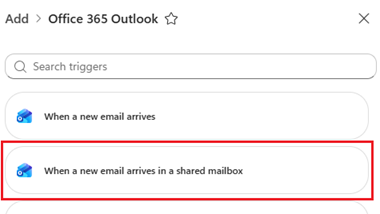
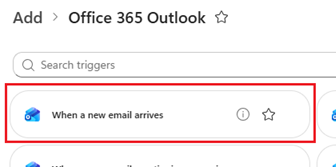
Use personal mailbox trigger in workflow walkthrough

diff --git a/01-scenarios/HR-Onboarding-Agent-GHCP/3.Runbook.md b/01-scenarios/HR-Onboarding-Agent-GHCP/3.Runbook.md
@@ -242,37 +242,31 @@ Use [Copilot Studio Workflows](https://learn.microsoft.com/en-us/microsoft-copil
 
 > ![Select the Office 365 Outlook connector](0.Resources/Images/070.png?v=46bfe700fbaa)
 
-5. Select **When a new email arrives in a shared mailbox**.
+5. Select **When a new email arrives**. **Note:** In a real production solution, we would probably use a shared mailbox.
 
-> ![Select the shared-mailbox email trigger](0.Resources/Images/066.png?v=edac3435379d)
+> ![Select When a new email arrives](0.Resources/Images/066.png?v=f15bb9d53595)
 
-6. Set **Original Mailbox Address** to your own email address for testing (in production, use the actual shared mailbox provided by the HR team). From **Advanced parameters**, select **Subject filter**.
+6. Set **Subject filter** to **HR question**.
 
-> ![Set Original Mailbox Address and select Subject filter](0.Resources/Images/071.png?v=88c0d20c3a58)
-
-> **Mailbox compatibility:** The selected shared-mailbox V2 trigger (`SharedMailboxOnNewEmailV2`) requires a shared mailbox your connection can access. If your own address is an ordinary personal mailbox, use the personal-mailbox trigger for testing instead, or use an accessible test shared mailbox here. Entering an address does not establish trigger support or access.
-
-7. Set **Subject filter** to **HR question**.
-
-> ![Set the Subject filter value to HR question](0.Resources/Images/072.png?v=9a43c696e06b)
+> ![Set the Subject filter value to HR question](0.Resources/Images/071.png?v=cb0a2ae6902f)
 
 > Keep **Include Attachments = No**. Backend intake still checks authoritative attachment metadata; this switch does not reject attached mail. A subject filter is not an authorization control. Before invoking the agent, validate transport authenticity, employee mapping, stable message identity, rate/loop suppression and full request coverage through `AcceptHrEmailEvent`.
 
-8. Click **+** after the trigger to add a new step.
+7. Click **+** after the trigger to add a new step.
 
 > ![Click the plus button after the trigger to add a step](0.Resources/Images/073.png?v=d0b66a5cbca8)
 
-9. Select **Agent**.
+8. Select **Agent**.
 
 > ![Select Agent from the Add panel](0.Resources/Images/074.png?v=ab6f6a190055)
 
-10. Select **An existing agent** → the published **HR Onboarding Agent**. Do not create an inline agent or substitute an unverified Execute Agent connector route. Complete the remaining instructions and skill setup, then republish before testing this node.
-11. In **Message**, supply the sanitized inquiry and isolated trusted context and allowed topics from accepted intake. Record exact GHCP target/version, imported skill execution and effective retrieval identity. Keep **Request human assistance when unsure** disabled; exceptions use the fixed HR queue, not email to the connection owner.
+9. Select **An existing agent** → the published **HR Onboarding Agent**. Do not create an inline agent or substitute an unverified Execute Agent connector route. Complete the remaining instructions and skill setup, then republish before testing this node.
+10. In **Message**, supply the sanitized inquiry and isolated trusted context and allowed topics from accepted intake. Record exact GHCP target/version, imported skill execution and effective retrieval identity. Keep **Request human assistance when unsure** disabled; exceptions use the fixed HR queue, not email to the connection owner.
 
-12. In the **same workflow**, parse the returned candidate as untrusted data. Run `ValidateHrEmailReply`, then `SubmitHrEmailReply` **only** on an authorized server result, using its `authorizationId` and `validatedResultId`. Send only the validated, sanitized HTML body bound by the backend; never accept model-provided recipients or authorization.
-13. Route held/failed/malformed results to `QueueHrEmailException`, and pending/unknown submissions to `GetHrEmailReplyStatus`. Inspect every branch, retry setting and version before saving. Routine authorized replies need no per-message human approval.
+11. In the **same workflow**, parse the returned candidate as untrusted data. Run `ValidateHrEmailReply`, then `SubmitHrEmailReply` **only** on an authorized server result, using its `authorizationId` and `validatedResultId`. Send only the validated, sanitized HTML body bound by the backend; never accept model-provided recipients or authorization.
+12. Route held/failed/malformed results to `QueueHrEmailException`, and pending/unknown submissions to `GetHrEmailReplyStatus`. Inspect every branch, retry setting and version before saving. Routine authorized replies need no per-message human approval.
 
-14. Keep send credentials physically absent or revoked during isolated testing. Workflow node tests can call real APIs; mock input alone is not isolation. Activate the approved real-mail pilot only after E1–E2/D3 pass and release/mailbox owners authorize it. Native Email is unavailable in the [GHCP channel table](https://learn.microsoft.com/en-us/microsoft-copilot-studio/agents-experience/publication-channels-overview); this workflow supplies the email entry path.
+13. Keep send credentials physically absent or revoked during isolated testing. Workflow node tests can call real APIs; mock input alone is not isolation. Activate the approved real-mail pilot only after E1–E2/D3 pass and release/mailbox owners authorize it. Native Email is unavailable in the [GHCP channel table](https://learn.microsoft.com/en-us/microsoft-copilot-studio/agents-experience/publication-channels-overview); this workflow supplies the email entry path.
 
 ---
 

diff --git a/01-scenarios/HR-Onboarding-Agent-GHCP/0.Resources/Release-readiness.md b/01-scenarios/HR-Onboarding-Agent-GHCP/0.Resources/Release-readiness.md
@@ -142,7 +142,7 @@ Follow the [new Workflows overview](https://learn.microsoft.com/en-us/microsoft-
 
 Before testing the Agent node, complete the instructions and all four skill imports in [Runbook Steps 2-4 through 2-6](../3.Runbook.md#step-2-4-update-agent-instructions), and publish that configuration to the isolated test scope. Then return here to verify invocation and downstream processing.
 
-1. Use **Workflows > New workflow** and choose the Office 365 Outlook **When a new email arrives in a shared mailbox (V2)** trigger (`SharedMailboxOnNewEmailV2`) if available in this environment. Configure the approved HR **Original Mailbox Address** and actual folder. A Microsoft 365 group is not a shared mailbox. Qualify the delegated connection's mailbox access; the connector does not document service-principal authentication.
+1. Use **Workflows > New workflow**. The runbook walkthrough uses Office 365 Outlook **When a new email arrives** with **Subject filter = HR question** for personal-mailbox testing. For the production HR shared-mailbox path, choose **When a new email arrives in a shared mailbox (V2)** (`SharedMailboxOnNewEmailV2`) if available in this environment, and configure the approved HR **Original Mailbox Address** and actual folder. A Microsoft 365 group is not a shared mailbox. Qualify the delegated connection's mailbox access; the connector does not document service-principal authentication.
 2. Set **Include Attachments = No**, but do not mistake that for rejecting attachments. `Only with Attachments = No` includes all mail, not only attachment-free mail. Backend intake checks authoritative stable attachment metadata, protected/invalid bodies, transport authenticity and employee mapping. Reject external/unverified/forwarded/redirection cases, bounces and automated loops. Rate-limit and deduplicate by stable mailbox/message identity.
 3. Add the implemented `AcceptHrEmailEvent` step and deterministic branches. Only accepted trusted contexts proceed. Missing request coverage, sensitive content or unknown applicability goes to the fixed HR exception queue; a queue failure becomes a durable failed handoff and operator alert. The agent must not receive restricted content merely to classify it.
 4. Add the **Agent** node, select **An existing agent**, and choose the published **HR Onboarding Agent** with all four imported skills. For isolated invocation testing, publish that standard configuration only to the approved test scope with no send credentials. Pass the sanitized request and trusted context and allowed topics through **Message**. Record the exact selected agent/harness/version, invoked skill, effective retrieval identity, context isolation and returned output in E1. The GHCP documentation establishes this invocation path; the deployment team must verify its actual target and identity configuration. If invocation fails, resolve that setup failure before go-live rather than substituting `ExecuteCopilot`, standard-harness triggers, SDK or an inline agent without verified applicability and a separately approved design change.

diff --git a/01-scenarios/HR-Onboarding-Agent-GHCP/0.Resources/README.md b/01-scenarios/HR-Onboarding-Agent-GHCP/0.Resources/README.md
@@ -19,7 +19,7 @@ These files document one standard scenario for all-employee HR chat and autonomo
 
 HR supplies approved handbook, ongoing benefits/wellness, leave-process, workplace and onboarding articles through the configured ServiceNow knowledge source. The [runbook](../3.Runbook.md#phase-1-servicenow-knowledge-base-setup) covers connection setup, source scope, citations and permissions. Production HR articles and tenant configuration are not included.
 
-The local sample Word documents provide synthetic test content, not production policy or the entire acceptance suite. Review their contents before loading them into an isolated test knowledge base. The runbook contains 57 visible screenshot placements and 5 in the hidden environment-variable step; the connector guide contains 52. Screenshots are being refreshed during editing; retained placeholders are not current-UI evidence. Superseded settings are labeled **Screenshot to replace**. The verification URL in `Images/012.png` is redacted because it contains account-verification material; replace it with a safely captured screenshot from your own setup, never an active token.
+The local sample Word documents provide synthetic test content, not production policy or the entire acceptance suite. Review their contents before loading them into an isolated test knowledge base. The runbook contains 56 visible screenshot placements and 5 in the hidden environment-variable step; the connector guide contains 52. Screenshots are being refreshed during editing; retained placeholders are not current-UI evidence. Superseded settings are labeled **Screenshot to replace**. The verification URL in `Images/012.png` is redacted because it contains account-verification material; replace it with a safely captured screenshot from your own setup, never an active token.
 
 The [controlled fixtures](../4.Sample-prompts.md#controlled-fixtures) contain self-contained ongoing-employee, onboarding, wellness, conflict and email-contract cases. Load articles only into an isolated test knowledge source and record its actual IDs/URLs; fixture labels are not live citations. Mock intake/backend results can test orchestration without mail credentials. Real email tests additionally require implemented controls, a verified target invocation and release-level pilot authorization.
 
